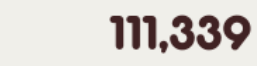
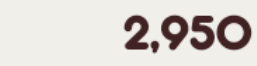
fix_stopgame

Changed region(s): [[0.4047, 0.2121, 0.9961, 0.8182]]

diff --git a/Pongkarmm_Coockierun_GOD/Cookie.py b/Pongkarmm_Coockierun_GOD/Cookie.py
@@ -552,12 +552,23 @@ def running_game(adb_path, templates_dir, notfound_dir, user_config, webhook_url
         if elapsed_time >= playtime:
             print(f"⏱ เวลาการเล่นถึงที่กำหนดแล้ว ({elapsed_time:.1f}/{playtime} วินาที) -> กำลังเรียกฟังก์ชัน stopgame...")
             # 3. ฟังก์ชั่น stopgame ให้กดปุ่มไปที่พิกัดนึงก่อน mx, my = get_random_pos(242, 586, 471, 382)
-            mx, my = get_random_pos(999, 999, 999, 999)
+            mx, my = get_random_pos(1467, 66, 1512, 22)
             tap_button(adb_path, device_id, mx, my)
             # จากนั้น delay 1 + delay random 0.1-0.5 วิ
             delay_stop = 1.0 + random.uniform(0.1, 0.5)
-            print(f"⏳ [stopgame] กดพิกัดเริ่มต้นสำเร็จ -> หน่วงเวลา {delay_stop:.2f} วินาที")
             time.sleep(delay_stop)
+            
+            #ปุ่มสตอบ
+            mx, my = get_random_pos(630, 571, 932, 484)
+            tap_button(adb_path, device_id, mx, my)
+            delay_stop = 1.0 + random.uniform(0.1, 0.5)
+            time.sleep(delay_stop)
+            
+            mx, my = get_random_pos(640, 522, 948, 434)
+            tap_button(adb_path, device_id, mx, my)
+        
+            print(f"⏳ [stopgame] กดพิกัดเริ่มต้นสำเร็จ -> หน่วงเวลา {delay_stop:.2f} วินาที")
+            time.sleep(0.99 + delay_stop)
             
             # พอจบฟังก์ชั่นนี้อยากให้เข้า 4. เช็ค "หน้าจบเกม" (result.png)
             print("➡ [stopgame] เสร็จสิ้น -> ข้ามไปตรวจเช็คหน้าจบเกม (result.png)")
